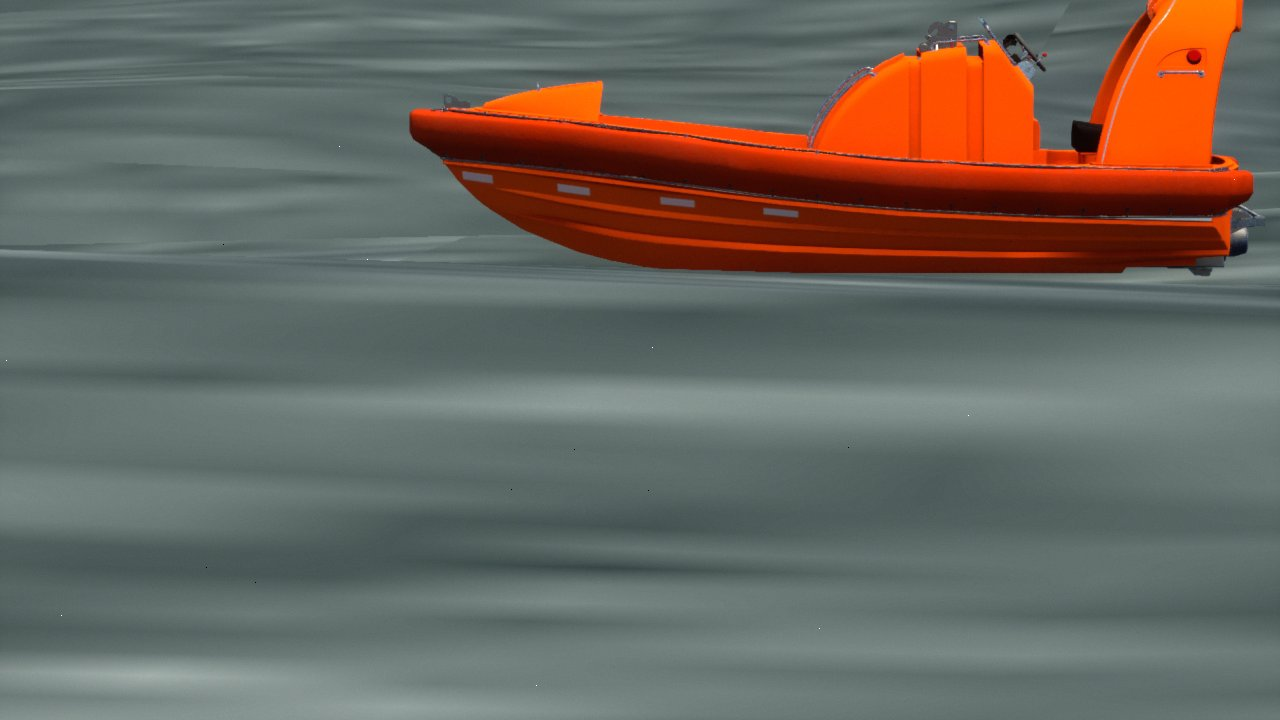
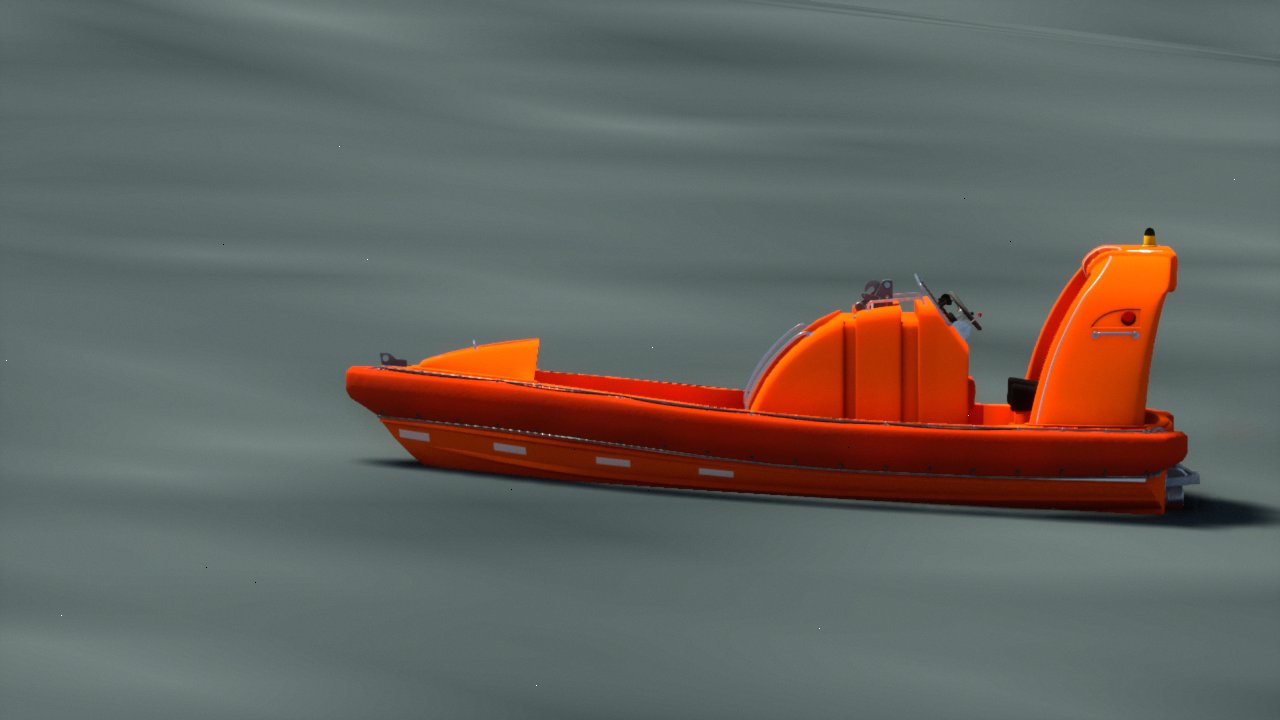
fix(entity): boat draft via entity_types z_offset_m; warm glTF model shaders at startup
z_offset_m (metres, + = up) sets the mesh's relative Z on every mesh path;
the Mako 655 uses -0.49 m so the hull sits ~0.35 m deep instead of on the
water. A trace of the first-appearance hitch showed ~130 ms of on-demand
material shader-map finalisation (FShaderCompilingManager::
ProcessAsyncResults) with the render thread waiting on the shader jobs;
FCamSimEntityManager::WarmUpModels now draws each preloaded model once,
50 km below the world, for 30 s after startup. The first 5 s of DIS in
dis_vehicle_check.py now have no frame over 66 ms (was one ~105 ms).

Claude-Session: https://claude.ai/code/session_01E31DBL2SpYZzXra2gESRvQ

diff --git a/unreal_project/CamSimTest/Source/CamSimTest/Entity/CamSimEntityManager.cpp b/unreal_project/CamSimTest/Source/CamSimTest/Entity/CamSimEntityManager.cpp
@@ -18,6 +18,9 @@
 #include "CamSimTest.h"
 
 #include "Engine/World.h"
+#include "Engine/StaticMesh.h"
+#include "Components/StaticMeshComponent.h"
+#include "GameFramework/Actor.h"
 
 #include "Geospatial/CigiFrames.h"
 
@@ -68,6 +71,10 @@ void FCamSimEntityManager::Tick(float DeltaTime)
 	// attachments parent-first, then the camera if it is itself attached.
 	// ACamSimCamera ticks later (TG_PostUpdateWork) and captures the result.
 	ACamSimCamera* Camera = Subsystem ? Subsystem->GetCamera() : nullptr;
+	if (Subsystem && Subsystem->GetGameInstance())
+	{
+		WarmUpModels(Subsystem->GetGameInstance()->GetWorld(), FPlatformTime::Seconds());
+	}
 	PurgeStaleEntities();
 
 	// Host adapters submit this frame's commands (each source has its own entity IDs).
@@ -583,4 +590,49 @@ void FCamSimEntityManager::ProcessScenarioEntities()
 		Remove.Lifecycle = EEntityLifecycle::Remove;
 		ApplyEntityCommand(Remove, NowSeconds, true);
 	}
+}
+
+// -------------------------------------------------------------------------
+// Model warm-up
+// -------------------------------------------------------------------------
+
+void FCamSimEntityManager::WarmUpModels(UWorld* World, double NowSeconds)
+{
+	constexpr double WarmUpHoldSeconds = 30.0;
+	if (bModelsWarmed)
+	{
+		if (WarmUpActors.Num() > 0 && NowSeconds >= WarmUpEndSeconds)
+		{
+			for (const TWeakObjectPtr<AActor>& A : WarmUpActors)
+			{
+				if (A.IsValid()) A->Destroy();
+			}
+			WarmUpActors.Empty();
+		}
+		return;
+	}
+	if (!World || !World->GetCurrentLevel() || !World->HasBegunPlay() || !TypeTable) return;
+	bModelsWarmed = true;
+	WarmUpEndSeconds = NowSeconds + WarmUpHoldSeconds;
+
+	// 50 km below the world origin: outside every view, but the component registers,
+	// creates its scene proxy and precaches its PSOs, which compiles the shaders.
+	const FVector Hidden(0.0, 0.0, -5.0e6);
+	for (UStaticMesh* Mesh : TypeTable->GetPreloadedStaticMeshes())
+	{
+		FActorSpawnParameters Params;
+		Params.SpawnCollisionHandlingOverride = ESpawnActorCollisionHandlingMethod::AlwaysSpawn;
+		AActor* Actor = World->SpawnActor<AActor>(AActor::StaticClass(), FTransform(Hidden), Params);
+		if (!Actor) continue;
+		UStaticMeshComponent* Comp = NewObject<UStaticMeshComponent>(Actor);
+		Comp->SetCollisionEnabled(ECollisionEnabled::NoCollision);
+		Comp->SetCastShadow(false);
+		Comp->SetStaticMesh(Mesh);
+		Actor->SetRootComponent(Comp);
+		Comp->RegisterComponent();
+		Comp->SetWorldLocation(Hidden);
+		WarmUpActors.Add(Actor);
+	}
+	UE_LOG(LogCamSim, Log, TEXT("EntityManager: warming up %d entity model(s) for %.0f s"),
+		WarmUpActors.Num(), WarmUpHoldSeconds);
 }

diff --git a/unreal_project/CamSimTest/Source/CamSimTest/Entity/CamSimEntity.cpp b/unreal_project/CamSimTest/Source/CamSimTest/Entity/CamSimEntity.cpp
@@ -222,6 +222,7 @@ void ACamSimEntity::ApplyLoadedSkeletalMesh(USkeletalMesh* Mesh,
 	SkelMeshComp->SetSkinnedAsset(Mesh);
 	SkelMeshComp->SetRelativeRotation(Entry.ModelRotation);
 	SkelMeshComp->SetRelativeScale3D(FVector(Entry.ModelScale));
+	SkelMeshComp->SetRelativeLocation(FVector(0.0, 0.0, Entry.ModelZOffsetCm));
 	SkelMeshComp->SetVisibility(true);
 	StaticMeshComp->SetVisibility(false);
 	UE_LOG(LogCamSim, Log,
@@ -237,6 +238,7 @@ void ACamSimEntity::ApplyLoadedStaticMesh(UStaticMesh* Mesh,
 	StaticMeshComp->SetStaticMesh(Mesh);
 	StaticMeshComp->SetRelativeRotation(Entry.ModelRotation);
 	StaticMeshComp->SetRelativeScale3D(FVector(Entry.ModelScale));
+	StaticMeshComp->SetRelativeLocation(FVector(0.0, 0.0, Entry.ModelZOffsetCm));
 	StaticMeshComp->SetVisibility(true);
 	SkelMeshComp->SetVisibility(false);
 	UE_LOG(LogCamSim, Log,
@@ -318,6 +320,7 @@ void ACamSimEntity::InitAnimatedCharacter(const FEntityTypeEntry& Entry)
 	AnimMeshComp->SetSkeletalMesh(Mesh);
 	AnimMeshComp->SetRelativeRotation(Entry.ModelRotation);
 	AnimMeshComp->SetRelativeScale3D(FVector(Entry.ModelScale));
+	AnimMeshComp->SetRelativeLocation(FVector(0.0, 0.0, Entry.ModelZOffsetCm));
 
 	// Load AnimBlueprint class
 	if (!Entry.AnimBlueprintPath.IsEmpty())

diff --git a/unreal_project/CamSimTest/Source/CamSimTest/Entity/EntityTypeTable.h b/unreal_project/CamSimTest/Source/CamSimTest/Entity/EntityTypeTable.h
@@ -27,6 +27,10 @@ struct FEntityTypeEntry
 	// Use these to fix glTF assets that are scaled or oriented incorrectly.
 	float   ModelScale    = 1.0f;   // uniform scale factor (default 1.0)
 	FRotator ModelRotation = FRotator::ZeroRotator; // pitch/yaw/roll offset (degrees)
+	// Vertical offset of the mesh from the entity origin (YAML z_offset_m, metres, + = up),
+	// stored in cm. Sinks a hull to its draft on the water, or lifts a model whose origin
+	// is not at its base. Applied with the rotation/scale as the mesh's relative location.
+	float   ModelZOffsetCm = 0.0f;
 
 	// Phase 19C — Vessel motion geometry.
 	// Set in EntityTypeTable YAML as half_length_m / half_beam_m for sea-domain entities.
@@ -59,6 +63,7 @@ struct FEntityTypeEntry
  *         pitch: 0.0
  *         yaw: 0.0
  *         roll: 0.0
+ *       z_offset_m: 0.0
  */
 class UStaticMesh;
 class USkeletalMesh;
@@ -82,6 +87,9 @@ public:
 	 * glTF entries resident.
 	 */
 	int32 PreloadGltfMeshes();
+
+	/** The preloaded glTF static meshes (see PreloadGltfMeshes). */
+	TArray<UStaticMesh*> GetPreloadedStaticMeshes() const;
 
 	/** Returns the entry for the given type ID, or nullptr if not found. */
 	const FEntityTypeEntry* FindEntry(uint16 TypeId) const;

diff --git a/unreal_project/CamSimTest/Source/CamSimTest/Tests/EntityTypeTableTest.cpp b/unreal_project/CamSimTest/Source/CamSimTest/Tests/EntityTypeTableTest.cpp
@@ -45,3 +45,27 @@ bool FEntityTypeTableCacheTest::RunTest(const FString& Parameters)
 
 	return true;
 }
+
+IMPLEMENT_SIMPLE_AUTOMATION_TEST(FEntityTypeTableZOffsetTest,
+	"CamSim.EntityTypeTable.ZOffset",
+	EAutomationTestFlags::EditorContext | EAutomationTestFlags::ProductFilter)
+
+bool FEntityTypeTableZOffsetTest::RunTest(const FString& Parameters)
+{
+	// glTF paths only need the file to exist (no RHI), so this runs under NullRHI.
+	FEntityTypeTable Table;
+	Table.LoadFromYamlString(TEXT(
+		"entity_types:\n"
+		"  \"2001\":\n"
+		"    mesh: truck/ural_4320.glb\n"
+		"  \"3001\":\n"
+		"    mesh: boat/mako_655.glb\n"
+		"    z_offset_m: -0.49\n"));
+
+	const FEntityTypeEntry* Truck = Table.FindEntry(2001);
+	const FEntityTypeEntry* Boat = Table.FindEntry(3001);
+	if (!TestNotNull(TEXT("truck entry"), Truck) || !TestNotNull(TEXT("boat entry"), Boat)) return false;
+	TestEqual(TEXT("absent z_offset_m defaults to 0"), Truck->ModelZOffsetCm, 0.0f);
+	TestEqual(TEXT("z_offset_m stored in cm"), Boat->ModelZOffsetCm, -49.0f, 1e-3f);
+	return true;
+}

diff --git a/unreal_project/CamSimTest/Source/CamSimTest/Entity/EntityTypeTable.cpp b/unreal_project/CamSimTest/Source/CamSimTest/Entity/EntityTypeTable.cpp
@@ -233,6 +233,9 @@ void FEntityTypeTable::LoadFromYamlString(const FString& YamlContent)
 			YamlDouble(RotNode, "roll",  R);
 			Entry.ModelRotation = FRotator(P, Y, R);
 		}
+		float ZOffsetM = 0.0f;
+		YamlFloat(EntryNode, "z_offset_m", ZOffsetM);
+		Entry.ModelZOffsetCm = ZOffsetM * 100.0f;
 
 		// Phase 19C — Vessel motion geometry
 		float HalfLengthM = 0.0f;
@@ -372,4 +375,14 @@ int32 FEntityTypeTable::PreloadGltfMeshes()
 	}
 	PreloadedMeshes = MoveTemp(Kept);
 	return PreloadedMeshes.Num();
+}
+
+TArray<UStaticMesh*> FEntityTypeTable::GetPreloadedStaticMeshes() const
+{
+	TArray<UStaticMesh*> Out;
+	for (const TPair<uint16, TStrongObjectPtr<UObject>>& Pair : PreloadedMeshes)
+	{
+		if (UStaticMesh* Mesh = Cast<UStaticMesh>(Pair.Value.Get())) Out.Add(Mesh);
+	}
+	return Out;
 }

diff --git a/unreal_project/CamSimTest/Source/CamSimTest/Entity/CamSimEntityManager.h b/unreal_project/CamSimTest/Source/CamSimTest/Entity/CamSimEntityManager.h
@@ -94,6 +94,16 @@ private:
 	/** Terrain / water traces for surface-clamped entities; created with the first entity. */
 	TUniquePtr<FCesiumSurfaceProbe> SurfaceProbe;
 
+	/**
+	 * Draw each preloaded glTF model once, far below the world, at startup: the editor
+	 * binary compiles material shaders on first use (~100 ms on the game and render
+	 * threads), which would otherwise hitch the stream when the first vehicle appears.
+	 */
+	void WarmUpModels(UWorld* World, double NowSeconds);
+	bool   bModelsWarmed = false;
+	double WarmUpEndSeconds = 0.0;
+	TArray<TWeakObjectPtr<AActor>> WarmUpActors;
+
 	/** Ground-truth annotation IDs, handed out at spawn (never repeated within a session). */
 	FAnnotationIdAllocator AnnotationIds;
 

diff --git a/ROADMAP.md b/ROADMAP.md
@@ -347,16 +347,16 @@ lifetime. Spec: `docs/superpowers/specs/2026-09-28-dis-vehicles-design.md`; plan
 
 Acceptance (`scripts/dis_vehicle_check.py`, macOS M-series, Metal, 2026-09-28):
 
-- `PASS (labels)`: 454 COCO frames, one ID each (`truck` 1, `boat` 2) across every frame.
+- `PASS (labels)`: 463 COCO frames, one ID each (`truck` 1, `boat` 2) across every frame.
 - Stream when the vehicles appear (settled wide view, tiles 100%): 147 frames in the first
-  5 s, median 33 ms, one frame over 66 ms: 105 ms, 0.15 s after the first annotated frame.
-  An earlier run had the same single ~110 ms frame at first appearance (likely first-use
-  PSO / texture upload); the 10 s before had 8 frames over 66 ms (max 133 ms).
+  5 s, median 33 ms, none over 66 ms (max 56 ms; the 10 s before: 4 over 66 ms, max
+  116 ms). Before the model warm-up (below) every run had one ~105–110 ms frame there.
 - Shots: both models face their travel direction (nadir at every leg of the loop and side
   views from the vehicle's left); the truck's wheels and shadow meet the ground and it pitches
-  with the slope (nose down on the east-bound descent); the boat sits on the rendered water.
+  with the slope (nose down on the east-bound descent); the boat sits in the rendered water at
+  a ~0.35 m draft (`entity_types` gains `z_offset_m`; the Mako 655 uses -0.49 m).
 
-| Truck, nadir | Truck on a descent | Boat, nadir | Boat, 6 m above the water |
+| Truck, nadir | Truck on a descent | Boat, nadir | Boat at its draft, 6 m above the water |
 |---|---|---|---|
 | ![](docs/images/dis-vehicles/truck-nadir.jpg) | ![](docs/images/dis-vehicles/truck-slope-side.jpg) | ![](docs/images/dis-vehicles/boat-nadir.jpg) | ![](docs/images/dis-vehicles/boat-waterline.jpg) |
 
@@ -364,12 +364,22 @@ Findings from the live run:
 
 - The bay's rendered surface at the boat circle is Cesium's bathymetric seabed, ~23 m below
   sea level (KLV Tag 25): the boat sits on what is drawn, but its altitude is below sea level.
-- The boat has no draft (keel ~0.14 m above the model origin): visible only in close-ups.
+- The boat first rode on the water with no draft (keel ~0.14 m above the model origin);
+  fixed with the per-type `z_offset_m`.
+- First-appearance hitch: a trace (`-trace=cpu,frame`) showed `FShaderCompilingManager::
+  ProcessAsyncResults` taking ~130 ms on the game thread (material shader maps for the glTF
+  materials, fetched from the DDC and finalised on first use by the editor binary) with the
+  render thread waiting on the shader jobs. Fixed: `FCamSimEntityManager::WarmUpModels` draws
+  each preloaded model once, 50 km below the world, for 30 s after startup. A respawn of an
+  already-seen type never hitched.
+- Unrelated to DIS: the periodic garbage collection (~60 s after startup, then every ~61 s)
+  stalls the game thread 0.6–1.0 s, of which ~340 ms is the Python plugin's
+  `PyUtil::CollectGarbage` (CamSim runs the editor binary with Python loaded) and ~180 ms
+  reachability analysis. Candidates: `-DisablePython` for runtime launches, a longer
+  `gc.TimeBetweenPurgingPendingKillObjects`, incremental GC.
 - Narrow-FOV / close-range views stream fine tiles slowly (independent of DIS: 5° FOV at
   700 m renders at ~1 fps for tens of seconds; 10° at 350 m ~10 fps) — worth a look under 3A.
 - Moving vehicles leave a faint TSR ghost trail in close-ups.
-- One ~100 ms frame when a vehicle first appears (reproducible, above): investigate with
-  `run_bench.py --trace` if it matters.
 
 Carry-overs:
 

diff --git a/docs/dis.md b/docs/dis.md
@@ -96,13 +96,16 @@ The values are keys of `entity_types`, which binds each CamSim type to a model:
 | `class_name` | ML ground-truth label (COCO `category.name`); `type_NNNN` if absent |
 | `scale` | Uniform model scale (to bring a model to its real size) |
 | `rotation` | `pitch` / `yaw` / `roll` offset (degrees) so the model's nose points along UE +X |
+| `z_offset_m` | Vertical offset of the model from the entity origin (metres, + = up; default 0). The surface clamp puts the origin on the surface, so a hull needs a negative value to sit at its draft |
 | `half_length_m` / `half_beam_m` | Half length / half width of the footprint after `scale`: the surface clamp's trace points (and vessel wave motion). Without them the loaded mesh's bounds are used. |
 
 The shipped types are `2001` (Ural-4320 cargo truck, 7.57 × 3.06 m) and `3001` (Mako 655
 rigid-hull inflatable, 6.54 × 2.63 m), both CC BY 4.0 (`entities/*/LICENSE.md`). glTF models
 are loaded once at startup and kept resident, so the first PDU of a new vehicle does not
-wait for a model load (`/Game/` assets still load asynchronously). One ~100 ms frame remains
-when a vehicle first appears (ROADMAP 2.5).
+wait for a model load (`/Game/` assets still load asynchronously). Each preloaded model is
+also drawn once, 50 km below the world, for the first 30 s after startup: the editor binary
+CamSim runs compiles material shaders on first use (~130 ms on the game thread, with the
+render thread waiting), which otherwise hitched the stream when the first vehicle appeared.
 
 ## Surface placement
 
@@ -151,9 +154,9 @@ VOC XML carries the same `entity_id`, `source` and `source_id` per object.
 ## Limitations
 
 - No visible ocean surface, waves or wakes: boats ride on Cesium's water-masked terrain (needs
-  editor assets; see ROADMAP), which can be the seabed (above). The hull has no draft: the
-  Mako 655's keel is about 0.14 m above the model origin, so close up (tens of metres) the boat
-  reads as sitting on the water rather than in it. Inland water that Cesium terrain does not
+  editor assets; see ROADMAP), which can be the seabed (above). The boat's draft is fixed
+  (`z_offset_m: -0.49`: the keel is ~0.14 m above the model origin, so the hull sits ~0.35 m
+  deep) and does not change with speed or load. Inland water that Cesium terrain does not
   render flat is not handled.
 - Fast-moving vehicles can leave a faint TSR ghost trail behind them in close-ups.
 - Boxes are loose, world-aligned projections of the model bounds, with no occlusion test

diff --git a/docs/configuration.md b/docs/configuration.md
@@ -576,6 +576,7 @@ to asset paths and flags:
 | `class_name` | string | No (default `type_NNNN`) | ML ground-truth label (COCO `category.name`, VOC `name`). |
 | `scale` | float | No (default `1.0`) | Uniform model scale, e.g. to bring a glTF model to its real size. |
 | `rotation` | map | No | `pitch` / `yaw` / `roll` offset in degrees so the model's nose points along UE +X (the entity's heading). |
+| `z_offset_m` | float | No (default `0.0`) | Vertical offset of the model from the entity origin, in metres (+ = up). Surface-clamped entities have their origin on the terrain / water, so a boat uses a negative value to sit at its draft (the shipped `3001` uses `-0.49`). |
 | `half_length_m` / `half_beam_m` | float | No | Half length / half width of the footprint after `scale`, in metres. Used by the DIS surface clamp's four ground traces (see [`dis.md`](dis.md#surface-placement)) and vessel wave motion; the loaded mesh's bounds are used when absent. |
 
 Entity type IDs are defined by the host simulation. CamSim does not reserve any
